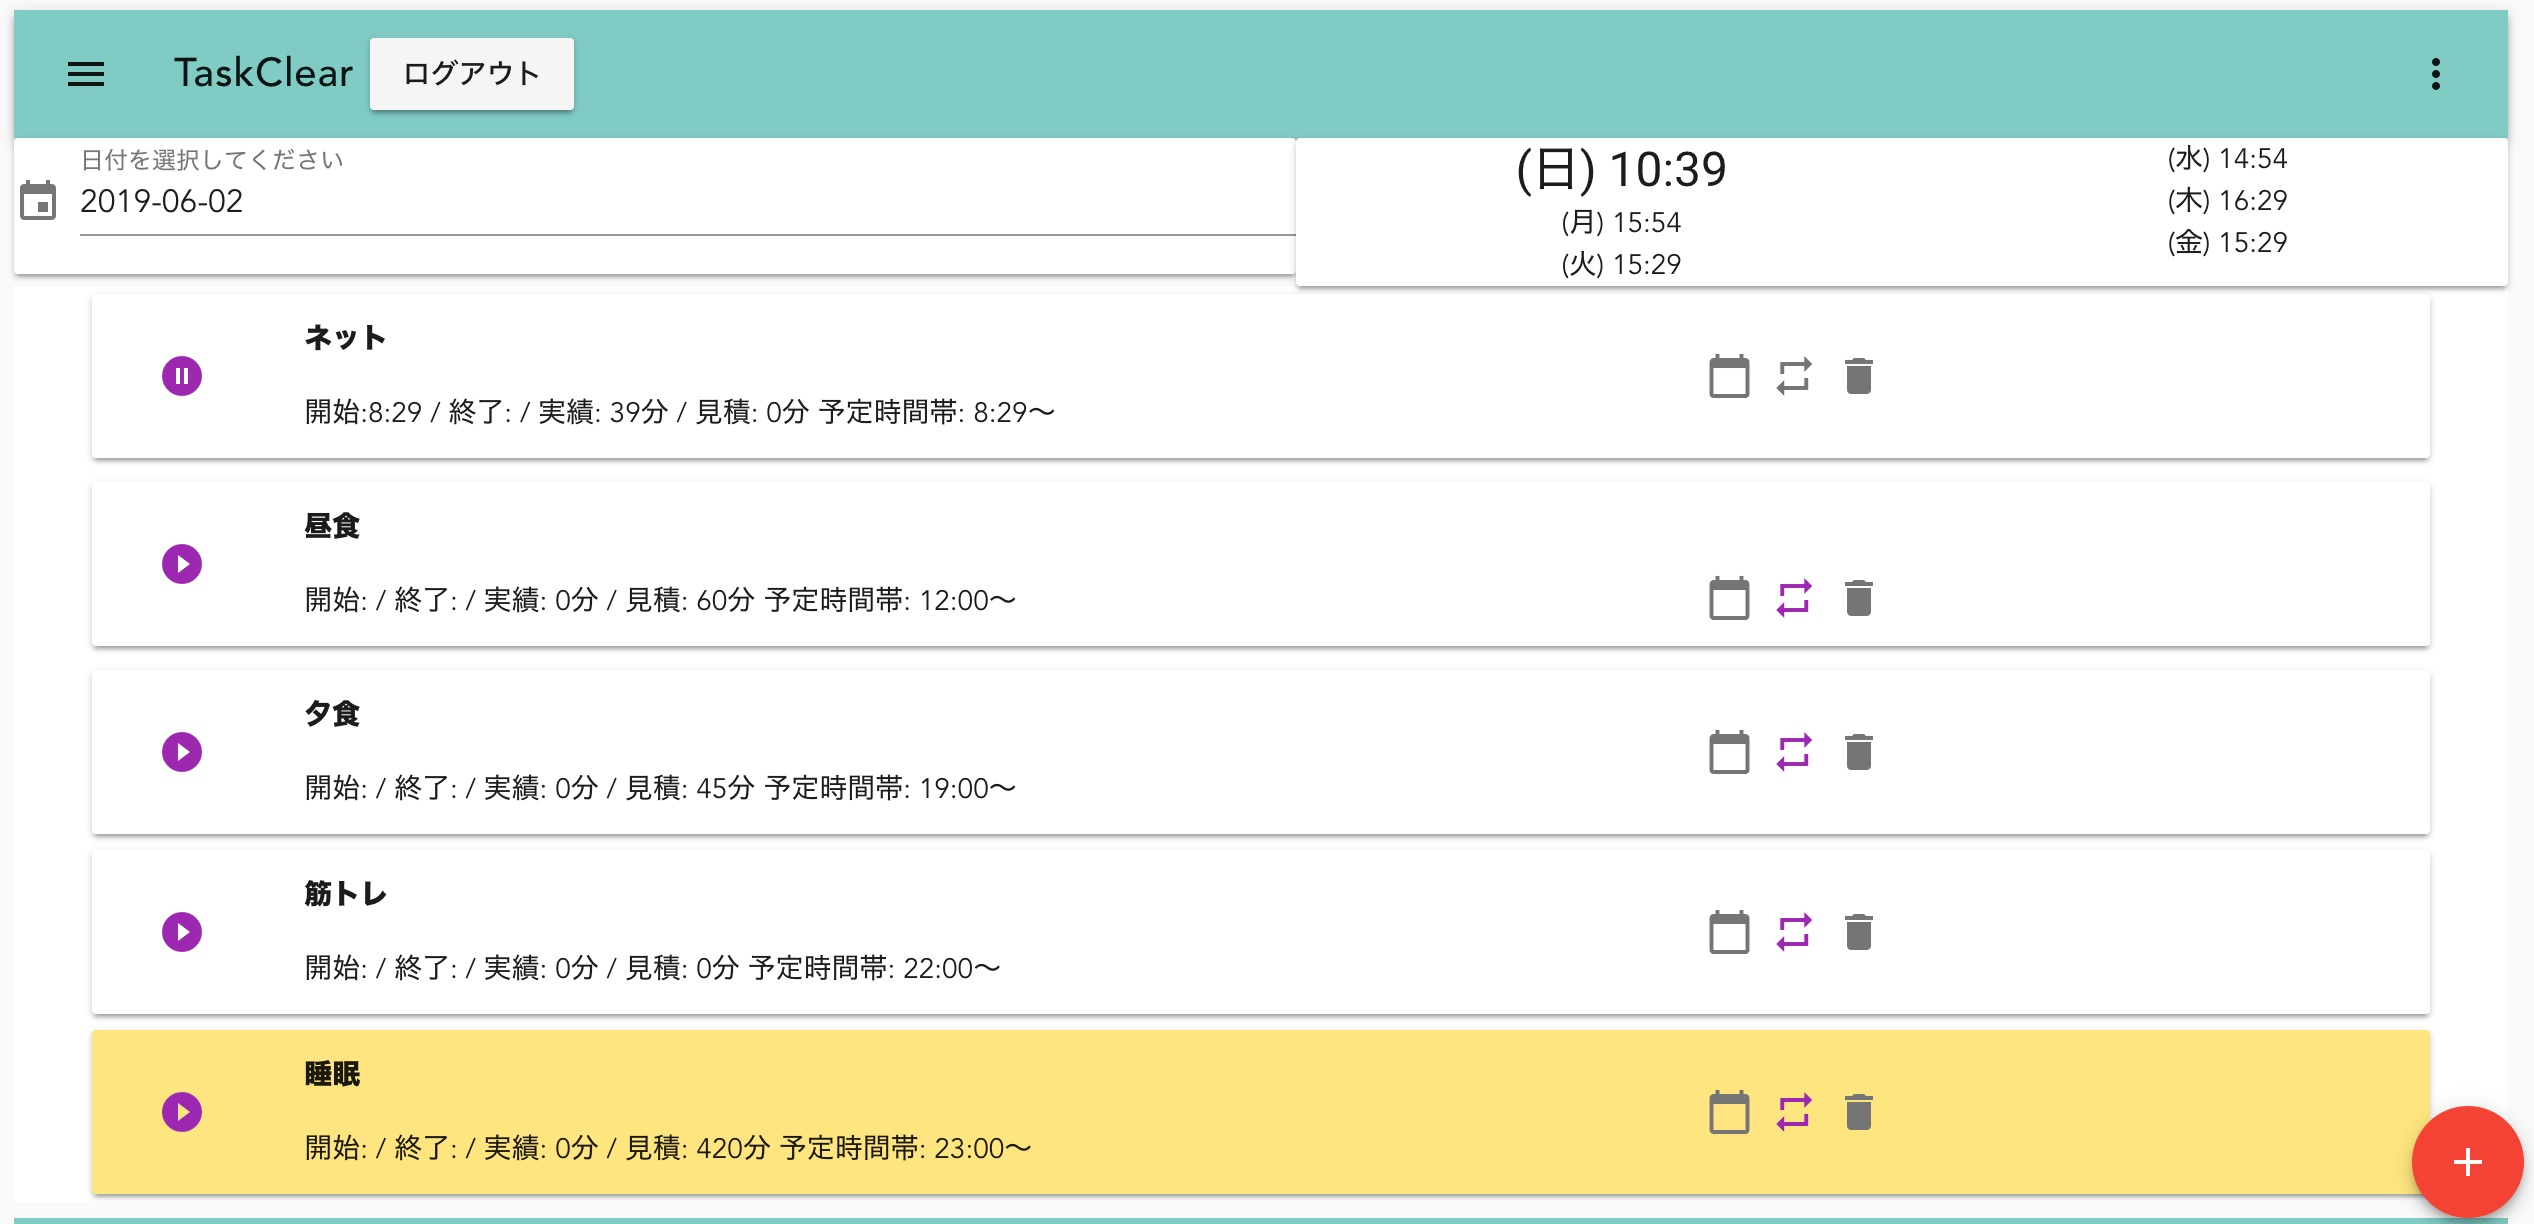
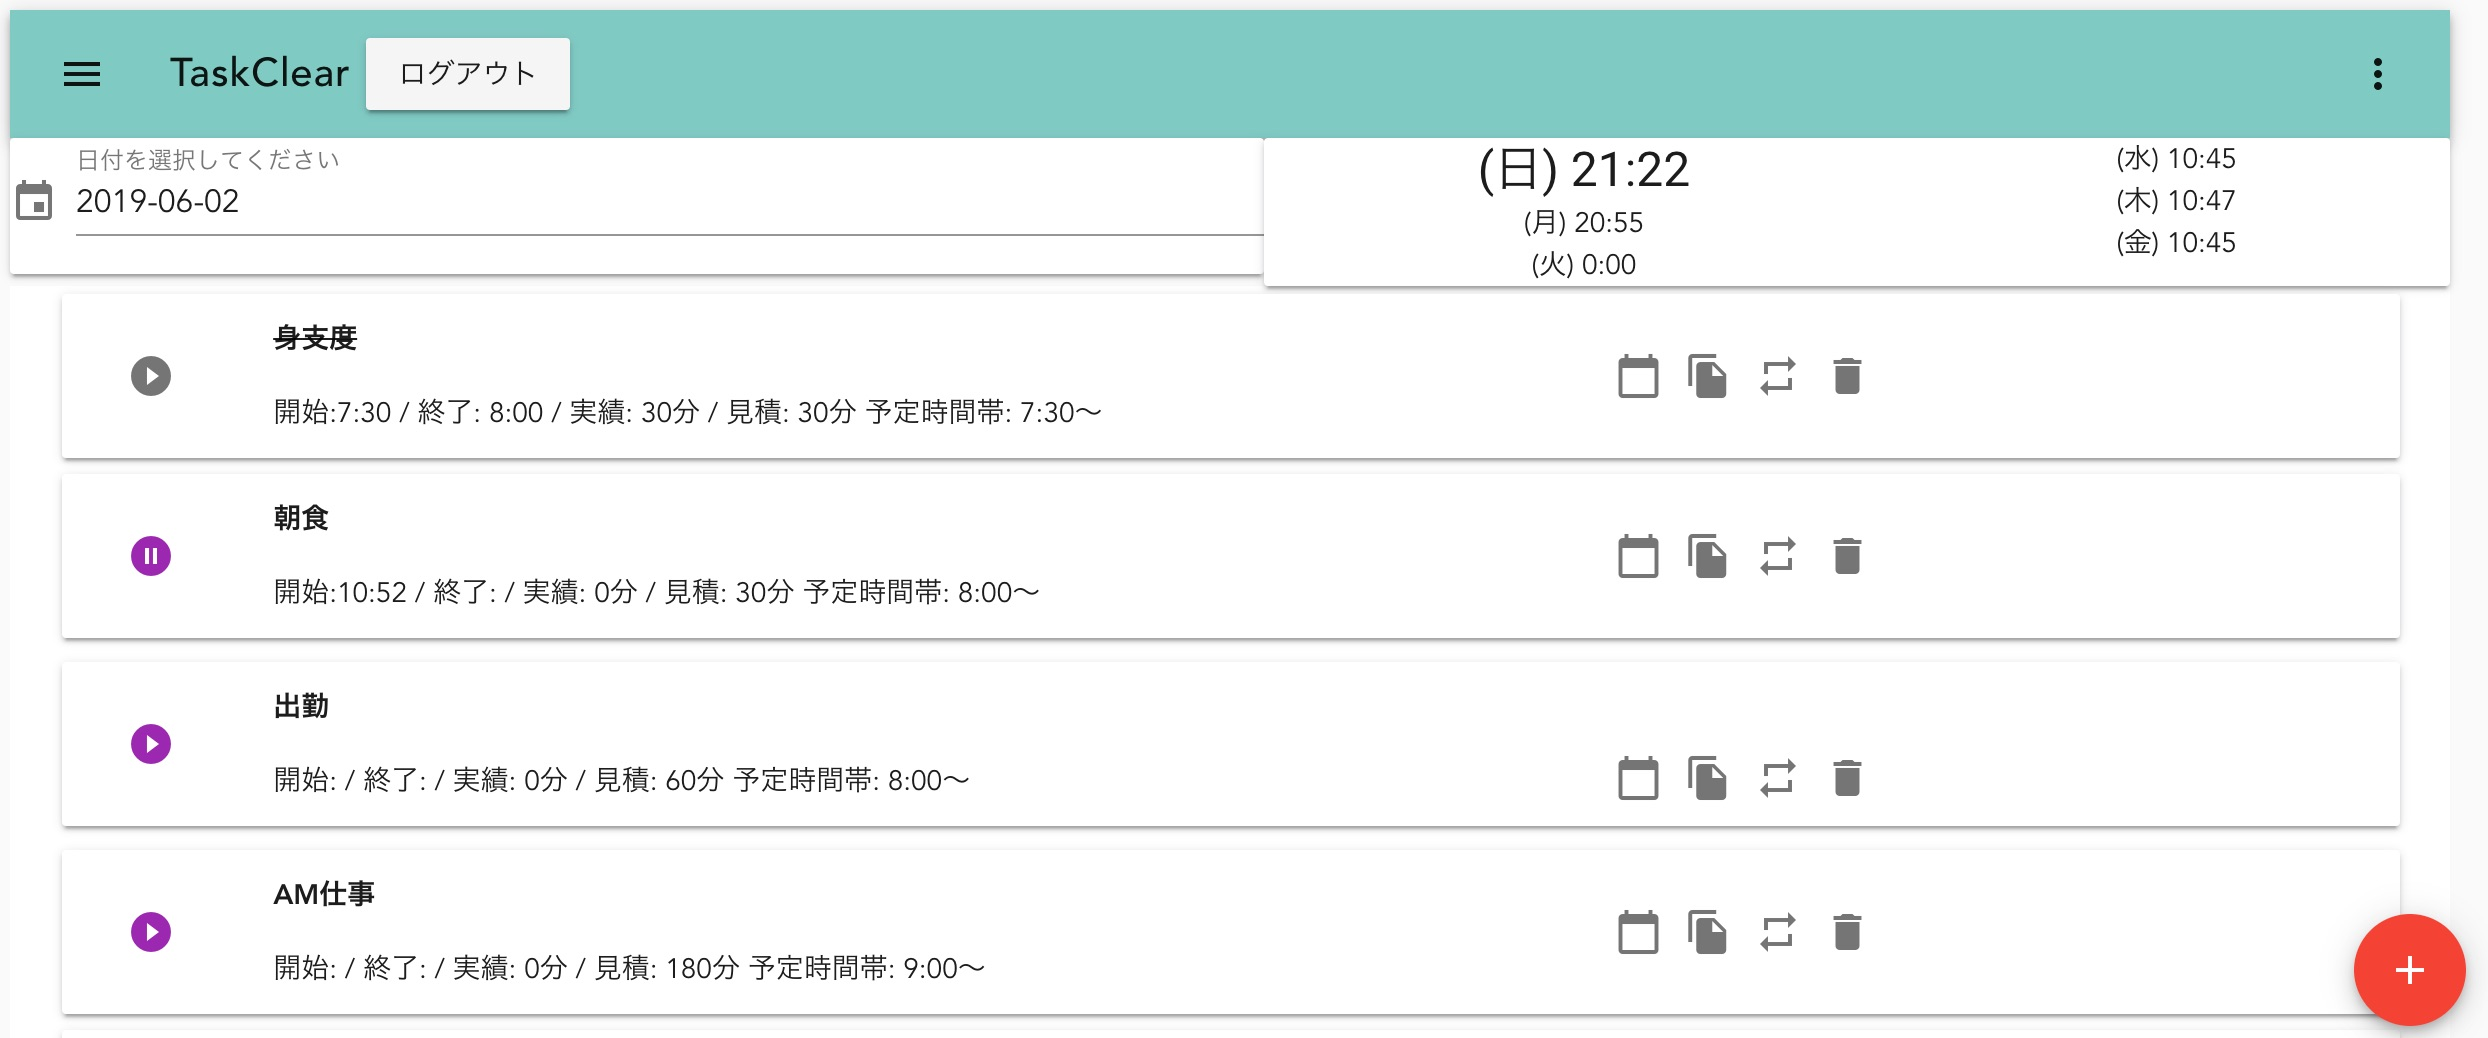
複写ボタンについて追記

Changed region(s): [[0.0, 0.0, 1.0, 1.0], [0.6499, 0.5857, 0.7428, 0.6474], [0.9285, 0.2775, 0.9594, 0.3083]]

diff --git a/help/README.md b/help/README.md
@@ -63,11 +63,6 @@
 * この場合、実行中だったタスク名には「中断」と追記され、新たに残りの見積時間が入ったタスクが自動で作成されます。
 * 割り込みの作業が終わったら、自動で作成されたタスクを開始して元の作業の続きを行ってください
 
-#### タスク複写機能
-
-* 一旦終了したタスクの開始ボタンを押す事で、新たにタスクを作成して開始する事ができます
-* この場合も、残り時間が新たに作成されたタスクの見積時間にセットされます
-
 ### タスク編集
 
 ![](taskedit.jpg)
@@ -77,10 +72,12 @@
 * 予定時間帯にタスクを実行する時間を指定します
   * セクション設定で指定した時間帯がリストで表示されます
   * 直接数値入力も可能です
+* 時刻は3桁4桁の数字で入力できます
+  * 「930」だと「9:30」、「2500」だと翌日の「1:00」になります
 * ソート順はタスクの並び替え機能です
 * 若い番号にすると上の方に表示されます(同予定時間帯の場合)
 * 「見積開始のタスクにする」は週間見積の計算に使用する最初のタスクにチェックします
-  * 「身支度」などの朝起きてから最初に実行するタスクにつける為のものなのですが、現在見積開始タスクがない場合はその日の最初のタスクを見積開始タスクと見なすので、このチェック自体今後削除するかもしれません
+  * 「身支度」などの朝起きてから最初に実行するタスクにつけると良いです
   * このチェックが付いたタスクは一日の中で一つだけにしてください
 * 「見積の区切りのタスクにする」にチェックしたタスクまでの見積を合計して終了予定時刻が週間見積に表示されます
   * 「帰宅」や「就寝」などの区切りのタスクに使うと良いです
@@ -105,6 +102,15 @@
 
 * タスクの日付を変更できます
 * 週間見積の時間を見ながらタスクの日付を調整しましょう
+
+### タスク複写機能
+
+![](copy.jpg)
+
+* タスクをコピーできます
+* コピー元のタスクの残り時間が新たに作成されたタスクの見積時間にセットされます
+* 終了済みのタスクの開始ボタンを押す事でもコピーできます
+  * この場合新たに作成されたタスクは開始状態になります
 
 ### リピート設定
 
@@ -183,7 +189,6 @@
   |タスクC |        10|        |           |✅|
   * → 終了予定時刻 : 9:20
 * 見積開始タスクを登録していない場合はその日の最初のタスクが基点になるので、この場合も終了予定時刻は9:20になります
-  * このような動きをするので、見積開始タスクのチェックはなくすかもしれません
 
   |タスク名|見積時間(分)|予定時間帯|見積開始タスク|見積区切りタスク|
   |-------|----------|--------|-----------|-------------|
